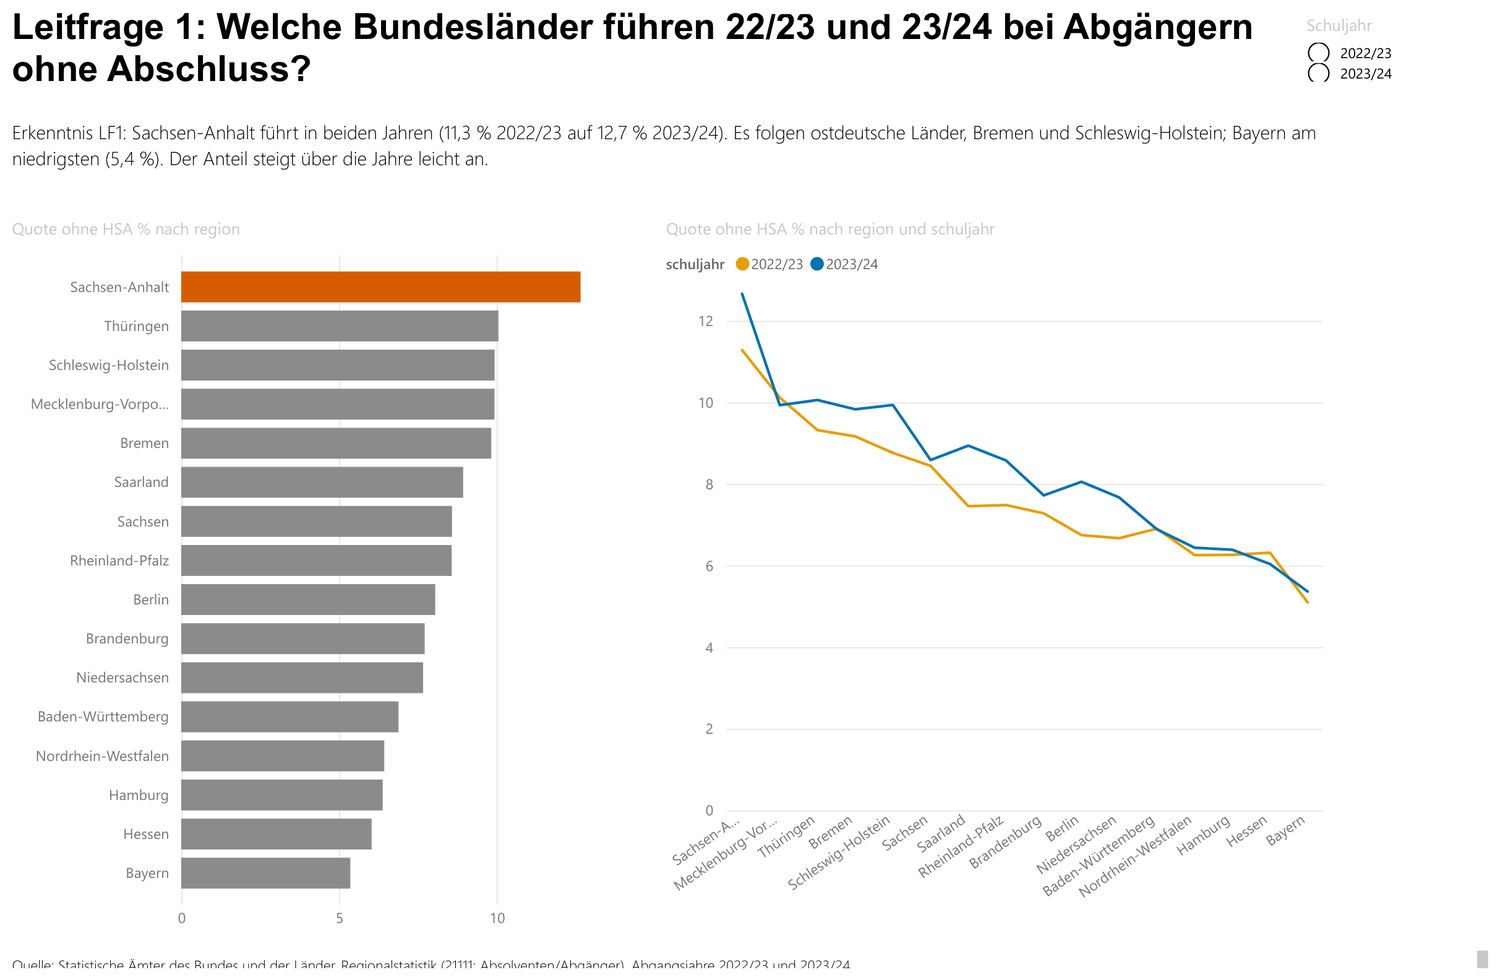
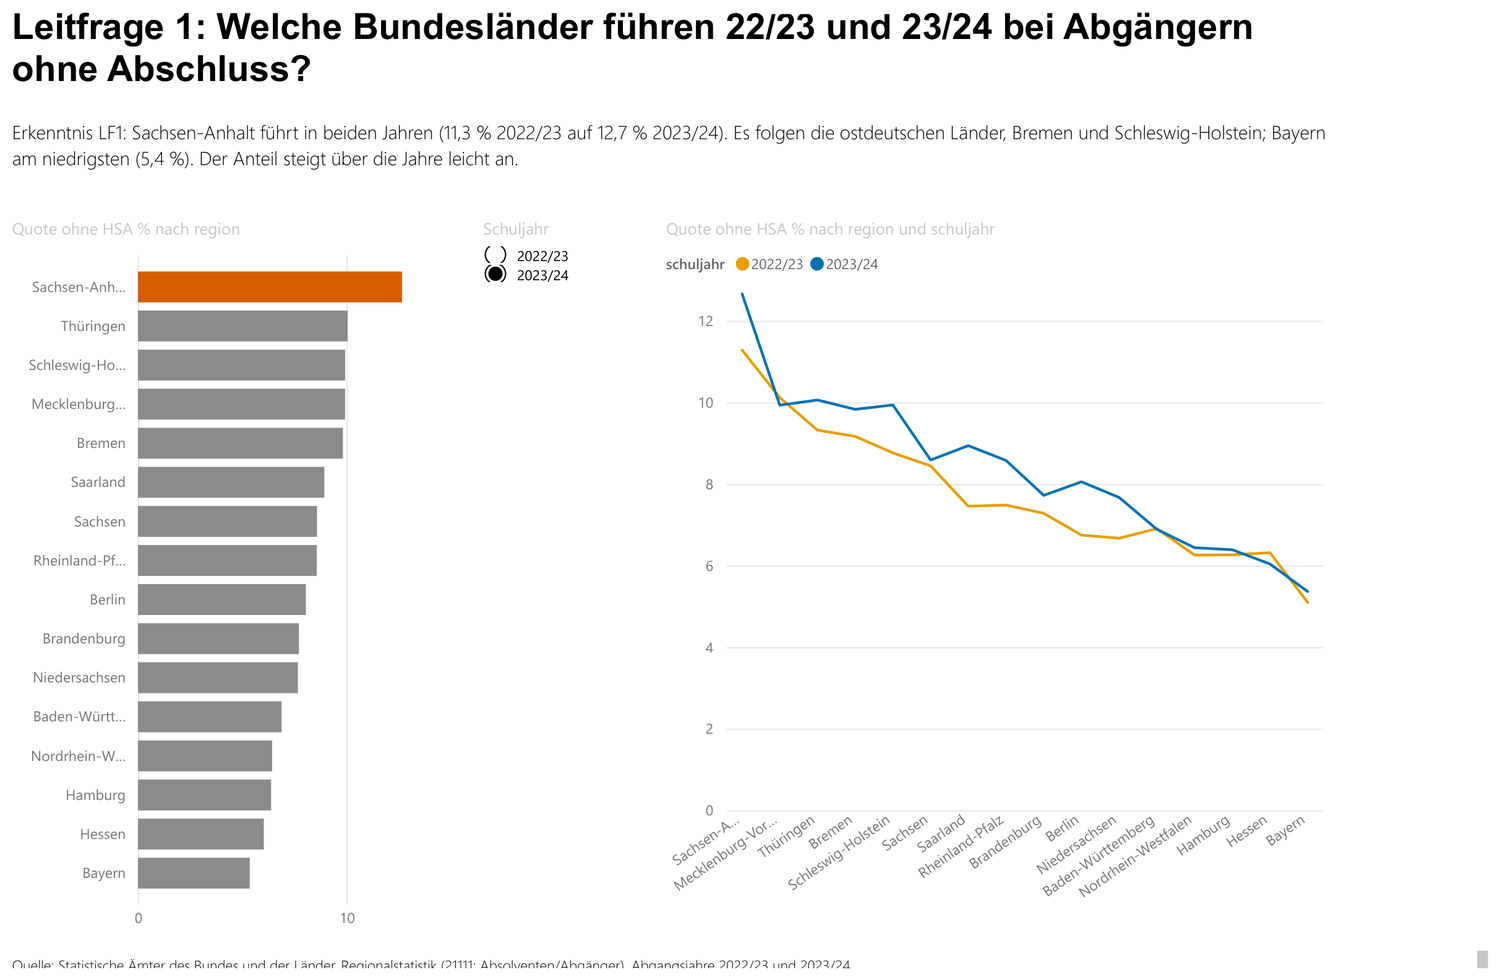
LF1: Schuljahr-Slicer neben dem Ranking, wirkt nur links; rechts statisch; Textanpassung
- Schuljahr-Slicer neben das linke Balken-Ranking gesetzt (Balken schmaler), Interaktion
  umgedreht: Slicer filtert jetzt NUR den Balken (Jahr-Pin entfernt, Vorauswahl 2023/24
  haelt die Standardansicht bei den verifizierten 2023-Zahlen); der Jahresvergleich
  rechts (Blau/Orange-Linien) bleibt vom Slicer unberuehrt.
- Erkenntnistext: "Es folgen die ostdeutschen Laender" (Bericht + README).
- Guard nachgezogen: Jahr-Pin-Zaehler >=9 (LF1-Balken bewusst slicer-gesteuert, begruendet).
- Deliverables neu: pbi_lf1.png, DOCX/PPTX; powerbi/README-Slicer-Beschreibung aktualisiert.
- verify_all: 107/107 gruen; .pbip = .pbix.

diff --git a/scripts/verify_all.py b/scripts/verify_all.py
@@ -205,7 +205,7 @@ pages=[_pj(pid).get("displayName","") for pid in order]
 check(".pbix 10 Seiten: Überblick + LF1→LF9 in Reihenfolge", len(pages)==10 and pages[0].startswith("Überblick") and all(pages[i+1].startswith(f"LF{i+1}") for i in range(9)), " | ".join(p[:6] for p in pages))
 rf=_rd("Report/definition/report.json")
 _jahrv=sum(1 for n in _names if n.endswith("visual.json") and '"Property": "jahr"' in _rd(n) and "2023L" in _rd(n))
-check(".pbix: Jahr=2023 pro Visual gepinnt (ersetzt report-weiten Filter; >=10 Visuals)", _jahrv>=10, f"{_jahrv} Visuals")
+check(".pbix: Jahr=2023 pro Visual gepinnt (ersetzt report-weiten Filter; >=9 Visuals – LF1-Balken steuert das Jahr bewusst über den Schuljahr-Slicer mit Vorauswahl 2023/24)", _jahrv>=9, f"{_jahrv} Visuals")
 # Visual-Texte je Seite (für Substring-Checks)
 _vis={pid:[_rd(n) for n in _names if n.startswith(f"Report/definition/pages/{pid}/visuals/") and n.endswith("visual.json")] for pid in order}
 # Guard gegen veralteten .pbix-Export (A1): Visual-Zahl muss dem aktuellen .pbip-Report entsprechen

diff --git a/README.md b/README.md
@@ -41,7 +41,7 @@ Wir sind ein dreiköpfiges Team im Modul *Analytische Anwendungen* und haben die
 ### Block 1 · Der Befund – *wo und wie stark?*
 
 #### LF1 — Welche Bundesländer führen bei Abgängen ohne Abschluss?
-**Unsere Antwort:** Sachsen-Anhalt steht an der Spitze (**12,66 %** Abgänge ohne Hauptschulabschluss, 2023) – und die Quote ist gegenüber dem Vorjahr **gestiegen**. Es folgen ostdeutsche Länder, Bremen und Schleswig-Holstein; Bayern liegt mit **~5,4 %** am niedrigsten. Die beiden Schuljahre 2022/23 und 2023/24 zeichnen wir als Vergleichspaar (Blau/Orange) auf einer bei null beginnenden Achse.
+**Unsere Antwort:** Sachsen-Anhalt steht an der Spitze (**12,66 %** Abgänge ohne Hauptschulabschluss, 2023) – und die Quote ist gegenüber dem Vorjahr **gestiegen**. Es folgen die ostdeutschen Länder, Bremen und Schleswig-Holstein; Bayern liegt mit **~5,4 %** am niedrigsten. Die beiden Schuljahre 2022/23 und 2023/24 zeichnen wir als Vergleichspaar (Blau/Orange) auf einer bei null beginnenden Achse; das Schuljahr fürs linke Ranking wählt ein Slicer direkt neben dem Diagramm (Vorauswahl 2023/24), der Jahresvergleich rechts bleibt davon unberührt.
 
 ![LF1](charts/pbi/pbi_lf1.png)
 

diff --git a/powerbi/README.md b/powerbi/README.md
@@ -13,7 +13,7 @@ Das semantische Modell (TMDL + Power Query M) wird **direkt im TMDL gepflegt** (
 - **9 Fakttabellen (6 + 3 Hilf):** `fact_abgaenge` (2 Schuljahre, alle Ebenen), `fact_schule_2023`, `fact_arbeitsmarkt_2025`, `fact_ausgaben_je_schueler` (Alle Schularten), `fact_ausgaben_schulart` (Ausgaben × Schulart, LF7), `fact_abgaenge_schulart` (Abgänge × Schulart × Abschlussart, Destatis 21111-12, Landesebene 2023 – die korrekte Antwort auf LF5); Hilfstabellen `fact_bevoelkerung_2023_2024` (Nenner, LF6), `fact_abgaenge_beruflich_2023` (ÜBERGANG) und `fact_einkommen_kreis` (verf. Einkommen je Einwohner, VGRdL 2021, LF9-Einkommensdimension).
 - **23 Measures** (in `dim_abschluss.tmdl`, inkl. der LF5-Antwort-Measures `Abgänge ohne HSA (Schulart)`/`Anteil ohne HSA je Schulart %`, der Dot-Plot-Positionsmeasure `BL-Position` (LF3/LF9), der LF5-Fokussicht `Schüleranteil ohne Grundschule %` und der beiden LF4-Delta-Measures `Gap ohne HSA (pp)`/`Gap Abitur (pp)`), je gegen Referenzwert (`data/kpi_referenzwerte.json`) geprüft; darunter der 3-dimensionale Risiko-Score (LF9, inkl. Einkommen), StdAbw Quote ohne HSA (Kreise) (LF3) und Verf. Einkommen je EW Ø. Hinzu kommen **elf reine Formatierungs-Measures** (Präfix `Farbe …`, nicht analytisch), die je Visual die Kernaussage akzentuieren (LF1 Schuljahr-Vergleichspaar/Sachsen-Anhalt, LF2 Anhalt-Bitterfeld, LF3 RLP-Streuung, LF5 Förderschulen, LF6 Rangwechsel, LF7 Berlin/Grundschulen, LF9 Top-10-Risiko) – Conditional Formatting „nach Feldwert".
 - **Beziehungen** (`definition/relationships.tmdl`): alle Fakten **\*:1 Single-Direction** zu `dim_region[region_code]` (auch beide Ausgaben-Tabellen über ergänzten `region_code`); `dim_abschluss→fact_abgaenge`; `dim_schulart→fact_schule_2023`; `dim_zeit→fact_abgaenge`. Die Schulart der Ausgaben (LF7) wird als Attribut von `fact_ausgaben_schulart` genutzt. Reines Sternschema, kein m:n.
-- **Interaktivität:** **1 geografische Deutschlandkarte** auf Kreisebene (LF2, Bubble-Map, Blasengröße = Quote ohne HSA; Werkzeug-Grenze Choropleth s. `BEFUNDE_UND_KORREKTUREN.md`). **6 gezielt eingesetzte Slicer** (bewusst entschlackt): Schuljahr (LF1, steuert den Trend-Chart), Bundesland-Einzelauswahl (LF5/LF6/LF7/LF9), Einkommens-Schieberegler (LF9, Between-Modus). Drilldown über die Region-Hierarchie (Land→RB→Kreis). Die Visuals einer Seite cross-filtern sich; auf LF8 ist der Stadtstaaten-Confounder über die farbliche Punkt-Trennung direkt ablesbar. Der Bericht umfasst **10 Seiten** (Überblick + LF1–LF9).
+- **Interaktivität:** **1 geografische Deutschlandkarte** auf Kreisebene (LF2, Bubble-Map, Blasengröße = Quote ohne HSA; Werkzeug-Grenze Choropleth s. `BEFUNDE_UND_KORREKTUREN.md`). **6 gezielt eingesetzte Slicer** (bewusst entschlackt): Schuljahr (LF1, direkt neben dem Balken-Ranking, steuert dessen Jahr mit Vorauswahl 2023/24 – der Jahresvergleich rechts bleibt statisch), Bundesland-Einzelauswahl (LF5/LF6/LF7/LF9), Einkommens-Schieberegler (LF9, Between-Modus). Drilldown über die Region-Hierarchie (Land→RB→Kreis). Die Visuals einer Seite cross-filtern sich; auf LF8 ist der Stadtstaaten-Confounder über die farbliche Punkt-Trennung direkt ablesbar. Der Bericht umfasst **10 Seiten** (Überblick + LF1–LF9).
 - **Karten-Voraussetzung & Datenschutz:** Die Karten sind Bing-basierte `map`-Visuals. Sie rendern nur, wenn in Power BI unter *Optionen → Sicherheit* „Verwenden von Kartenvisuals und Flächenkartogrammen" aktiviert ist; dabei werden die **Regions-/Kreisnamen zur Geokodierung an Microsoft/Bing** gesendet (nur öffentliche Gebietsnamen, keine personenbezogenen Daten). Ohne aktivierte Option bleibt die Kartenfläche leer – die restliche Interaktivität (Slicer/Slider) funktioniert unabhängig davon.
 
 ## Verifikationsstatus